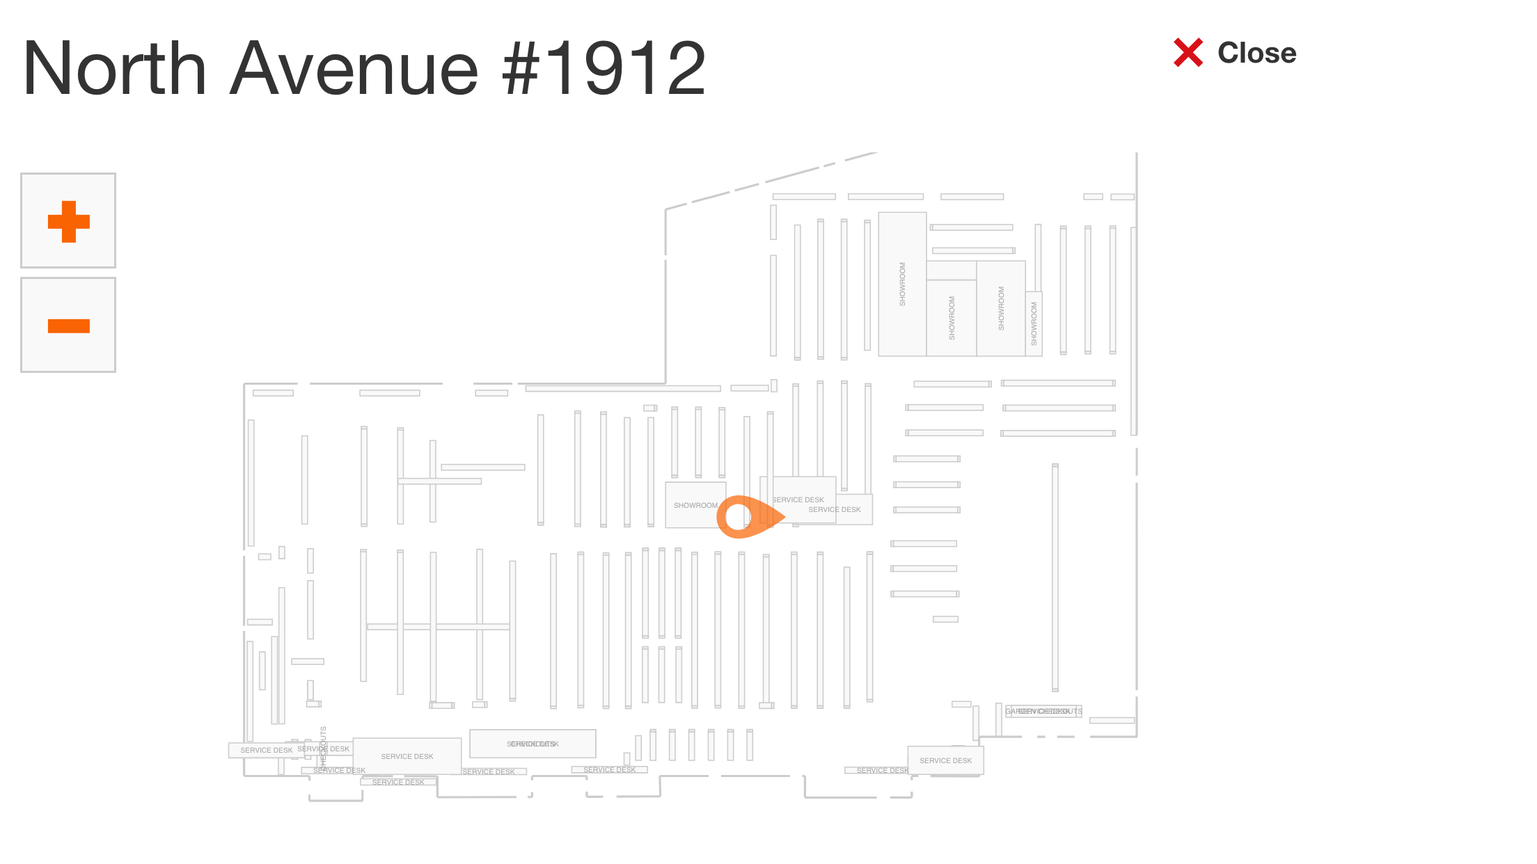
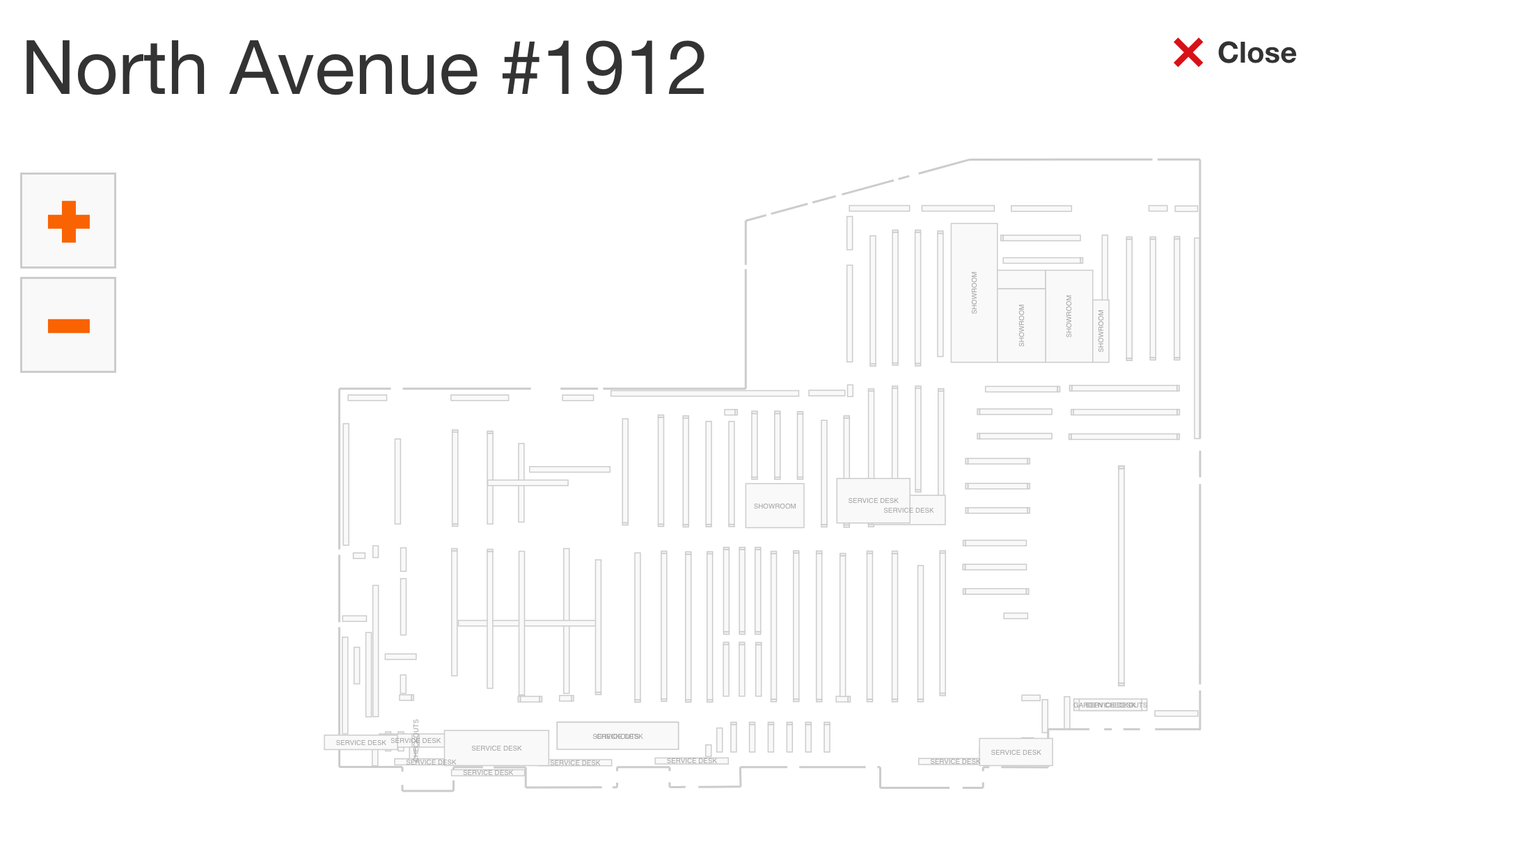
working proof-of-concept

diff --git a/test.js b/test.js
@@ -1,0 +1,119 @@
+const salesman = require('./salesman');
+
+const data = [
+  { itemName: 'Store Entrance', x: 314, y: 304 },
+  {
+    itemName: 'DEWALT Black and Gold Drill Bit Set (14-Piece)',
+    locationText: 'Aisle 09, Bay 005',
+    x: 226.2057708287155,
+    y: 247.61979849227774,
+    cartItemDiv:
+      '<div class="grid"><div class="col__4-12 col__2-12--xs u__p-left--none"><div class="cartImage"><a href="//www.homedepot.com/p/DEWALT-Black-and-Gold-Drill-Bit-Set-14-Piece-DWA1184/205952637"><img alt="Black and Gold Drill Bit Set (14-Piece)" class="cartImage__image" src="https://images.homedepot-static.com/productImages/0fe61d8e-48ec-4773-acce-915b7867d43e/svn/dewalt-twist-drill-bits-dwa1184-64_400.jpg"></a></div></div><div class="col__8-12 col__4-12--xs"><h3 class="cartItem__brandName"><a href="//www.homedepot.com/p/DEWALT-Black-and-Gold-Drill-Bit-Set-14-Piece-DWA1184/205952637"><span class="u__bold">DEWALT</span>&nbsp;<span>Black and Gold Drill Bit Set (14-Piece)</span></a></h3><div class="cartItem__productId" data-automation-id="productDetailsModelNumberText">Model #DWA1184</div></div><div class="col__4-12 col__2-12--xs u__p-left--none"><div><div><label class="cartItem__qtyLabel">Qty</label><div><input type="tel" class="cartItem__qtyInput form-input__field padding_left-10 padding_right-10" maxlength="4" data-automation-id="itemQuantityBoxQuantityInput" value="1"></div></div></div></div><div class="col__4-12 col__2-12--xs"><label class="cartItem__priceLabel">Unit Price</label><div class="cartItem__price ">$14.97</div></div><div class="col__4-12 col__1-12--xs"><label class="cartItem__priceLabel">Item Total</label><div class="cartItem__price p-bottom-small">$14.97</div></div></div>',
+    storeMarkerElement:
+      '<g data-x="226.7057708287155" data-y="261.5868552490699" class="storemarker"><defs><marker id="storemarker" refX="-13.96705675679217" viewbox="0 0 32 32" refY="-0.5" markerWidth="32" markerHeight="32" fill="#f96302" style="shape-rendering: auto; stroke: none; opacity: 0.7;"><path d="M16 0c-5.523 0-10 4.477-10 10 0 10 10 22 10 22s10-12 10-22c0-5.523-4.477-10-10-10zM16 16c-3.314 0-6-2.686-6-6s2.686-6 6-6 6 2.686 6 6-2.686 6-6 6z"></path></marker></defs><path class="storemarker" d="M210.7057708287155,229.5868552490699L210.7057708287155,229.5968552490699" marker-end="url(#storemarker)" style="opacity: 1;"></path></g>'
+  },
+  {
+    itemName:
+      'DEWALT ATOMIC 20-Volt MAX Lithium-Ion Brushless Cordless Compact 1/2 in. Drill Driver w/ (2) Batteries 1.3Ah, Charger & Bag',
+    locationText: 'Aisle 09, Bay 009',
+    x: 226.2057708287155,
+    y: 233.65274173548556,
+    cartItemDiv:
+      '<div class="grid"><div class="col__4-12 col__2-12--xs u__p-left--none"><div class="cartImage"><a href="//www.homedepot.com/p/DEWALT-ATOMIC-20-Volt-MAX-Lithium-Ion-Brushless-Cordless-Compact-1-2-in-Drill-Driver-w-2-Batteries-1-3Ah-Charger-Bag-DCD708C2/308067442"><img alt="ATOMIC 20-Volt MAX Lithium-Ion Brushless Cordless Compact 1/2 in. Drill Driver w/ (2) Batteries 1.3Ah, Charger &amp; Bag" class="cartImage__image" src="https://images.homedepot-static.com/productImages/c6327a22-e931-482b-9d3e-aeab30caa4be/svn/dewalt-power-drills-dcd708c2-64_400.jpg"></a></div></div><div class="col__8-12 col__4-12--xs"><h3 class="cartItem__brandName"><a href="//www.homedepot.com/p/DEWALT-ATOMIC-20-Volt-MAX-Lithium-Ion-Brushless-Cordless-Compact-1-2-in-Drill-Driver-w-2-Batteries-1-3Ah-Charger-Bag-DCD708C2/308067442"><span class="u__bold">DEWALT</span>&nbsp;<span>ATOMIC 20-Volt MAX Lithium-Ion Brushless Cordless Compact 1/2 in. Drill Driver w/ (2) Batteries 1.3Ah, Charger &amp; Bag</span></a></h3><div class="cartItem__productId" data-automation-id="productDetailsModelNumberText">Model #DCD708C2</div></div><div class="col__4-12 col__2-12--xs u__p-left--none"><div><div><label class="cartItem__qtyLabel">Qty</label><div><input type="tel" class="cartItem__qtyInput form-input__field padding_left-10 padding_right-10" maxlength="4" data-automation-id="itemQuantityBoxQuantityInput" value="1"></div></div></div></div><div class="col__4-12 col__2-12--xs"><label class="cartItem__priceLabel">Unit Price</label><div class="cartItem__price ">$159.00</div></div><div class="col__4-12 col__1-12--xs"><label class="cartItem__priceLabel">Item Total</label><div class="cartItem__price p-bottom-small">$159.00</div></div></div>',
+    storeMarkerElement:
+      '<g data-x="226.7057708287155" data-y="261.5868552490699" class="storemarker"><defs><marker id="storemarker" refX="-27.93411351358434" viewbox="0 0 32 32" refY="-0.5" markerWidth="32" markerHeight="32" fill="#f96302" style="shape-rendering: auto; stroke: none; opacity: 0.7;"><path d="M16 0c-5.523 0-10 4.477-10 10 0 10 10 22 10 22s10-12 10-22c0-5.523-4.477-10-10-10zM16 16c-3.314 0-6-2.686-6-6s2.686-6 6-6 6 2.686 6 6-2.686 6-6 6z"></path></marker></defs><path class="storemarker" d="M210.7057708287155,229.5868552490699L210.7057708287155,229.5968552490699" marker-end="url(#storemarker)" style="opacity: 1;"></path></g>'
+  },
+  {
+    itemName: 'DAP Alex Plus 10.1 oz. White Acrylic Latex Caulk Plus Silicone',
+    locationText: 'Aisle 38, Bay 003',
+    x: 253.11407419384574,
+    y: 174.36693710882855,
+    cartItemDiv:
+      '<div class="grid"><div class="col__4-12 col__2-12--xs u__p-left--none"><div class="cartImage"><a href="//www.homedepot.com/p/DAP-Alex-Plus-10-1-oz-White-Acrylic-Latex-Caulk-Plus-Silicone-18103/100097524"><img alt="Alex Plus 10.1 oz. White Acrylic Latex Caulk Plus Silicone" class="cartImage__image" src="https://images.homedepot-static.com/productImages/66016895-a1aa-445a-954f-8f75a0f7a6ed/svn/white-dap-caulk-18103-64_400.jpg"></a></div></div><div class="col__8-12 col__4-12--xs"><h3 class="cartItem__brandName"><a href="//www.homedepot.com/p/DAP-Alex-Plus-10-1-oz-White-Acrylic-Latex-Caulk-Plus-Silicone-18103/100097524"><span class="u__bold">DAP</span>&nbsp;<span>Alex Plus 10.1 oz. White Acrylic Latex Caulk Plus Silicone</span></a></h3><div class="cartItem__productId" data-automation-id="productDetailsModelNumberText">Model #18103</div></div><div class="col__4-12 col__2-12--xs u__p-left--none"><div><div><label class="cartItem__qtyLabel">Qty</label><div><input type="tel" class="cartItem__qtyInput form-input__field padding_left-10 padding_right-10" maxlength="4" data-automation-id="itemQuantityBoxQuantityInput" value="1"></div></div></div></div><div class="col__4-12 col__2-12--xs"><label class="cartItem__priceLabel">Unit Price</label><div class="cartItem__price ">$2.58</div></div><div class="col__4-12 col__1-12--xs"><label class="cartItem__priceLabel">Item Total</label><div class="cartItem__price p-bottom-small">$2.58</div></div></div>',
+    storeMarkerElement:
+      '<g data-x="261.61939668883724" data-y="178.02273440448178" class="storemarker"><defs><marker id="storemarker" refX="-3.6557972956532248" viewbox="0 0 32 32" refY="-8.5053224949915" markerWidth="32" markerHeight="32" fill="#f96302" style="shape-rendering: auto; stroke: none; opacity: 0.7;"><path d="M16 0c-5.523 0-10 4.477-10 10 0 10 10 22 10 22s10-12 10-22c0-5.523-4.477-10-10-10zM16 16c-3.314 0-6-2.686-6-6s2.686-6 6-6 6 2.686 6 6-2.686 6-6 6z"></path></marker></defs><path class="storemarker" d="M245.61939668883724,146.02273440448178L245.61939668883724,146.03273440448177" marker-end="url(#storemarker)" style="opacity: 1;"></path></g>'
+  },
+  {
+    itemName:
+      'EcoSmart 60-Watt Equivalent A19 Non-Dimmable LED Light Bulb Daylight (8-Pack)',
+    locationText: 'Aisle 01, Bay 010',
+    x: 304.38581383580714,
+    y: 231.83376767470008,
+    cartItemDiv:
+      '<div class="grid"><div class="col__4-12 col__2-12--xs u__p-left--none"><div class="cartImage"><a href="//www.homedepot.com/p/EcoSmart-60-Watt-Equivalent-A19-Non-Dimmable-LED-Light-Bulb-Daylight-8-Pack-B7A19A60WUL38/303574493"><img alt="60-Watt Equivalent A19 Non-Dimmable LED Light Bulb Daylight (8-Pack)" class="cartImage__image" src="https://images.homedepot-static.com/productImages/9e5456cf-b653-4adf-9f8d-0db4548bbdb3/svn/ecosmart-led-light-bulbs-b7a19a60wul38-64_400.jpg"></a></div></div><div class="col__8-12 col__4-12--xs"><h3 class="cartItem__brandName"><a href="//www.homedepot.com/p/EcoSmart-60-Watt-Equivalent-A19-Non-Dimmable-LED-Light-Bulb-Daylight-8-Pack-B7A19A60WUL38/303574493"><span class="u__bold">EcoSmart</span>&nbsp;<span>60-Watt Equivalent A19 Non-Dimmable LED Light Bulb Daylight (8-Pack)</span></a></h3><div class="cartItem__productId" data-automation-id="productDetailsModelNumberText">Model #B7A19A60WUL38</div></div><div class="col__4-12 col__2-12--xs u__p-left--none"><div><div><label class="cartItem__qtyLabel">Qty</label><div><input type="tel" class="cartItem__qtyInput form-input__field padding_left-10 padding_right-10" maxlength="4" data-automation-id="itemQuantityBoxQuantityInput" value="1"></div></div></div></div><div class="col__4-12 col__2-12--xs"><label class="cartItem__priceLabel">Unit Price</label><div class="cartItem__price ">$9.94</div></div><div class="col__4-12 col__1-12--xs"><label class="cartItem__priceLabel">Item Total</label><div class="cartItem__price p-bottom-small">$9.94</div></div></div>',
+    storeMarkerElement:
+      '<g data-x="307.58581383580713" data-y="258.6930330062223" class="storemarker"><defs><marker id="storemarker" refX="-26.859265331522224" viewbox="0 0 32 32" refY="-3.2" markerWidth="32" markerHeight="32" fill="#f96302" style="shape-rendering: auto; stroke: none; opacity: 0.7;"><path d="M16 0c-5.523 0-10 4.477-10 10 0 10 10 22 10 22s10-12 10-22c0-5.523-4.477-10-10-10zM16 16c-3.314 0-6-2.686-6-6s2.686-6 6-6 6 2.686 6 6-2.686 6-6 6z"></path></marker></defs><path class="storemarker" d="M291.58581383580713,226.69303300622232L291.58581383580713,226.7030330062223" marker-end="url(#storemarker)" style="opacity: 1;"></path></g>'
+  },
+  {
+    itemName:
+      '3M Scotch 1.88 in. x 54.6 yds. Heavy-Duty Shipping Packaging Tape with Dispenser',
+    locationText: 'Aisle 61, Bay 002',
+    x: 325.8078270594234,
+    y: 166.20040028201868,
+    cartItemDiv:
+      '<div class="grid"><div class="col__4-12 col__2-12--xs u__p-left--none"><div class="cartImage"><a href="//www.homedepot.com/p/3M-Scotch-1-88-in-x-54-6-yds-Heavy-Duty-Shipping-Packaging-Tape-with-Dispenser-3850-RD-DC/100149185"><img alt="Scotch 1.88 in. x 54.6 yds. Heavy-Duty Shipping Packaging Tape with Dispenser" class="cartImage__image" src="https://images.homedepot-static.com/productImages/93552175-1709-44b0-8e1a-041a8e78a62c/svn/3m-adhesives-tape-3850-rd-dc-64_400.jpg"></a></div></div><div class="col__8-12 col__4-12--xs"><h3 class="cartItem__brandName"><a href="//www.homedepot.com/p/3M-Scotch-1-88-in-x-54-6-yds-Heavy-Duty-Shipping-Packaging-Tape-with-Dispenser-3850-RD-DC/100149185"><span class="u__bold">3M</span>&nbsp;<span>Scotch 1.88 in. x 54.6 yds. Heavy-Duty Shipping Packaging Tape with Dispenser</span></a></h3><div class="cartItem__productId" data-automation-id="productDetailsModelNumberText">Model #3850-RD-DC</div></div><div class="col__4-12 col__2-12--xs u__p-left--none"><div><div><label class="cartItem__qtyLabel">Qty</label><div><input type="tel" class="cartItem__qtyInput form-input__field padding_left-10 padding_right-10" maxlength="4" data-automation-id="itemQuantityBoxQuantityInput" value="1"></div></div></div></div><div class="col__4-12 col__2-12--xs"><label class="cartItem__priceLabel">Unit Price</label><div class="cartItem__price ">$6.27</div></div><div class="col__4-12 col__1-12--xs"><label class="cartItem__priceLabel">Item Total</label><div class="cartItem__price p-bottom-small">$6.27</div></div></div>',
+    storeMarkerElement:
+      '<g data-x="320.5086938380746" data-y="170.267897620809" class="storemarker"><defs><marker id="storemarker" refX="-4.067497338790326" viewbox="0 0 32 32" refY="5.2991332213488" markerWidth="32" markerHeight="32" fill="#f96302" style="shape-rendering: auto; stroke: none; opacity: 0.7;"><path d="M16 0c-5.523 0-10 4.477-10 10 0 10 10 22 10 22s10-12 10-22c0-5.523-4.477-10-10-10zM16 16c-3.314 0-6-2.686-6-6s2.686-6 6-6 6 2.686 6 6-2.686 6-6 6z"></path></marker></defs><path class="storemarker" d="M304.5086938380746,138.267897620809L304.5086938380746,138.277897620809" marker-end="url(#storemarker)" style="opacity: 1;"></path></g>'
+  }
+];
+let noLocationData = [
+  {
+    itemName:
+      'Energizer Rechargeable AA Batteries, NiHM, 2000 mAh, Pre-Charged, 4-Count (Recharge Universal)',
+    locationText: 'Aisle C2, Bay 020',
+    cartItemDiv:
+      '<div class="grid"><div class="col__4-12 col__2-12--xs u__p-left--none"><div class="cartImage"><a href="//www.homedepot.com/p/Energizer-Rechargeable-AA-Batteries-NiHM-2000-mAh-Pre-Charged-4-Count-Recharge-Universal-UNH15BP-4/204406591"><img alt="Rechargeable AA Batteries, NiHM, 2000 mAh, Pre-Charged, 4-Count (Recharge Universal)" class="cartImage__image" src="https://images.homedepot-static.com/productImages/92ffd374-b030-48fa-8322-542966d2e1a2/svn/energizer-aa-batteries-unh15bp-4-64_400.jpg"></a></div></div><div class="col__8-12 col__4-12--xs"><h3 class="cartItem__brandName"><a href="//www.homedepot.com/p/Energizer-Rechargeable-AA-Batteries-NiHM-2000-mAh-Pre-Charged-4-Count-Recharge-Universal-UNH15BP-4/204406591"><span class="u__bold">Energizer</span>&nbsp;<span>Rechargeable AA Batteries, NiHM, 2000 mAh, Pre-Charged, 4-Count (Recharge Universal)</span></a></h3><div class="cartItem__productId" data-automation-id="productDetailsModelNumberText">Model #UNH15BP-4</div></div><div class="col__4-12 col__2-12--xs u__p-left--none"><div><div><label class="cartItem__qtyLabel">Qty</label><div><input type="tel" class="cartItem__qtyInput form-input__field padding_left-10 padding_right-10" maxlength="4" data-automation-id="itemQuantityBoxQuantityInput" value="1"></div></div></div></div><div class="col__4-12 col__2-12--xs"><label class="cartItem__priceLabel">Unit Price</label><div class="cartItem__price ">$10.98</div></div><div class="col__4-12 col__1-12--xs"><label class="cartItem__priceLabel">Item Total</label><div class="cartItem__price p-bottom-small">$10.98</div></div></div>'
+  }
+];
+// points: [
+//   Point { x: 314, y: 304 },
+//   Point { x: 226.2057708287155, y: 247.61979849227774 },
+//   Point { x: 226.2057708287155, y: 233.65274173548556 },
+//   Point { x: 253.11407419384574, y: 174.36693710882855 },
+//   Point { x: 304.38581383580714, y: 231.83376767470008 },
+//   Point { x: 325.8078270594234, y: 166.20040028201868 }
+// ]
+// solution: [ 0, 4, 5, 3, 2, 1 ]
+// ordered_points: [
+//   Point { x: 314, y: 304 },
+//   Point { x: 304.38581383580714, y: 231.83376767470008 },
+//   Point { x: 325.8078270594234, y: 166.20040028201868 },
+//   Point { x: 253.11407419384574, y: 174.36693710882855 },
+//   Point { x: 226.2057708287155, y: 233.65274173548556 },
+//   Point { x: 226.2057708287155, y: 247.61979849227774 }
+// ]
+
+const expect_solution = [0, 4, 5, 3, 2, 1];
+
+// console.log(data[expect_solution[1]].x);
+
+// let salesman_path_html = (
+//   <path
+//     class='salesman'
+//     d='M314,304L307.58581383580713,258.6930330062223L320.5086938380746,170.267897620809L261.61939668883724,178.02273440448178L226.7057708287155,261.5868552490699L226.7057708287155,261.5868552490699L'
+//     style='stroke: rgb(249, 99, 2); stroke-width: 2; fill: none; opacity: .5;'
+//   ></path>
+// );
+
+// const points = [];
+// data.forEach(item => points.push(new salesman.Point(item.x, item.y)));
+// console.log('points:', points);
+// const solution = salesman.solve(points);
+// console.log('solution:', solution);
+// const ordered_points = solution.map(i => points[i]);
+// console.log('ordered_points:', ordered_points);
+
+// const salesman_path_attribute_d = () => {
+//   let str = 'M';
+//   for (let i = 0; i < solution.length; i++) {
+//     str += `${data[expect_solution[i]].x},${data[expect_solution[i]].y}L`;
+//   }
+//   return str;
+// };
+// console.log(salesman_path_attribute_d());
+
+let storeMarkerStr = '';
+data.forEach(
+  item => item.storeMarkerElement && (storeMarkerStr += item.storeMarkerElement)
+);
+console.log(storeMarkerStr);

diff --git a/scraper.js b/scraper.js
@@ -1,8 +1,15 @@
 const puppeteer = require('puppeteer');
 const devices = require('puppeteer/DeviceDescriptors');
 const iPhone = devices['iPhone 8 Plus landscape'];
+const salesman = require('./salesman');
 
-const data = [];
+const data = [
+  {
+    itemName: 'Store Entrance',
+    x: '314',
+    y: '304'
+  }
+];
 const noLocationData = [];
 
 puppeteer.launch({ headless: false }).then(async browser => {
@@ -11,7 +18,9 @@ puppeteer.launch({ headless: false }).then(async browser => {
   await page.emulate(iPhone);
 
   let cartUrl =
-    'https://www.homedepot.com/mycart/home?userId=cd14e1db-18d4-4f32-9f20-49a9814b2cc8&customerId=cd14e1db-18d4-4f32-9f20-49a9814b2cc8&sharedCartId=HL100097460525?cm_mmc=ecc-_-THD_SHARE_CART__V1_M1_CA-_-VIEW_CART#';
+    'https://www.homedepot.com/mycart/home?userId=07a24488-de3a-4947-bf44-c2e6f8b3562e&customerId=07a24488-de3a-4947-bf44-c2e6f8b3562e&sharedCartId=HL100097460525?cm_mmc=ecc-_-THD_SHARE_CART__V1_M1_CA-_-VIEW_CART';
+  // 'https://www.homedepot.com/mycart/home?userId=bfd41032-14de-4903-8e62-96e77a8918f0&customerId=bfd41032-14de-4903-8e62-96e77a8918f0&sharedCartId=HL100097460525?cm_mmc=ecc-_-THD_SHARE_CART__V1_M1_CA-_-VIEW_CART';
+  // 'https://www.homedepot.com/mycart/home?userId=cd14e1db-18d4-4f32-9f20-49a9814b2cc8&customerId=cd14e1db-18d4-4f32-9f20-49a9814b2cc8&sharedCartId=HL100097460525?cm_mmc=ecc-_-THD_SHARE_CART__V1_M1_CA-_-VIEW_CART#';
 
   let storeNumber = '1912';
 
@@ -80,6 +89,7 @@ puppeteer.launch({ headless: false }).then(async browser => {
     page.waitForNavigation();
 
     //#store-availability > div > fieldset > div > a > span.u__bold.store-availability__content
+    await page.waitForSelector('a > .store-availability__content');
     const locationText = await page.$eval(
       'a > .store-availability__content',
       element => element.outerText
@@ -97,11 +107,27 @@ puppeteer.launch({ headless: false }).then(async browser => {
 
     if (await page.$('g.storemarker')) {
       const storeMarkerElement = await page.$eval(
-        'g.storemarker',
+        'g.active-aisle',
         element => element.outerHTML
       );
-      const x = await page.$eval('g.storemarker', element => element.dataset.x);
-      const y = await page.$eval('g.storemarker', element => element.dataset.y);
+      let x = await page.$eval('g.storemarker', element => element.dataset.x);
+      // console.log('x before offeset:', x);
+
+      let y = await page.$eval('g.storemarker', element => element.dataset.y);
+      // console.log('y before offeset:', y);
+
+      // const xOffset = await page.evaluate(() =>
+      //   document.querySelector('#storemarker').getAttribute('refX')
+      // );
+      // console.log('xOffeset:', xOffset);
+      // xOffset && (y = +y + +xOffset);
+
+      // const yOffset = await page.evaluate(() =>
+      //   document.querySelector('#storemarker').getAttribute('refY')
+      // );
+      // console.log('yOffeset:', yOffset);
+      // yOffset && (x = +x + +yOffset);
+
       // console.log(storeMarkerElement);
       console.log('x:', x);
       console.log('y:', y);
@@ -134,14 +160,57 @@ puppeteer.launch({ headless: false }).then(async browser => {
   // <------------ cartItems data scraping loop ------------>
   console.log('data:', data);
   console.log('noLocationData:', noLocationData);
-  //document.querySelector('g.storemarker').dataset.x
-  //document.querySelector('g.storemarker').dataset.y
-  // grab the g.active-aisle (g.storemarker) innerHtml and store it in ITEM object
-  // need to grab rect.(x,y) coordinates from g.storemarker for each item
+
+  // <------------ set Markers ------------>
+  let storeMarkerStr = '';
+  data.forEach(
+    item =>
+      item.storeMarkerElement && (storeMarkerStr += item.storeMarkerElement)
+  );
+
+  await page.evaluate(storeMarkerStr => {
+    let node = document.createElement('g');
+    document.querySelector('.storemap-wrapper').appendChild(node);
+    node.outerHTML = `${storeMarkerStr}`;
+  }, storeMarkerStr);
+  // <------------ set Markers ------------>
+
+  // <--------- apply Traveling Salesman algorithm --------->
+  const points = [];
+  data.forEach(item => points.push(new salesman.Point(item.x, item.y)));
+  console.log('points:', points);
+  const solution = salesman.solve(points);
+  console.log('solution:', solution);
+  const ordered_points = solution.map(i => points[i]);
+  console.log('ordered_points:', ordered_points);
+  // <--------- apply Traveling Salesman algorithm --------->
+
+  const salesman_path_attribute_d = () => {
+    let str = 'M';
+    for (let i = 0; i < solution.length; i++) {
+      str += `${data[solution[i]].x},${data[solution[i]].y}L`;
+    }
+    return str;
+  };
+  // console.log(salesman_path_attribute_d());
+  let path = salesman_path_attribute_d();
+
+  // <------------ set Salesman Path ------------>
+  await page.evaluate(path => {
+    let node = document.createElement('path');
+    document.querySelector('.storemap-wrapper').appendChild(node);
+    node.outerHTML = `<path class="route" d="${path}" style="stroke: rgb(249, 99, 2); stroke-width: 2; fill: none; opacity: .6;"></path>
+    `;
+  }, path);
+
+  // <------------ set Salesman Path ------------>
+
+  //  + rerender div.cartItem(s) in correct order
+
   // svg parent graph element is #storemap-wrapper > svg > g.outer > g (width="450" height="319.13113161025126")
-  // Traveling Salesman algorithm + rerender div.cartItem(s) in correct order
   // return store map with visualization of TS route
+  // path html: <path class="route" d="M314,304L307.58581383580713,258.6930330062223L320.5086938380746,170.267897620809L261.61939668883724,178.02273440448178L226.7057708287155,261.5868552490699L226.7057708287155,261.5868552490699" style="stroke: rgb(249, 99, 2); stroke-width: 2; fill: none; opacity: .5;"></path>
 
   // close headless browser when finished
-  await browser.close();
+  // await browser.close();
 });

diff --git a/salesman.js b/salesman.js
@@ -1,0 +1,134 @@
+/**
+ * @module
+ * @author Ophir LOJKINE
+ * salesman npm module
+ *
+ * Good heuristic for the traveling salesman problem using simulated annealing.
+ * @see {@link https://lovasoa.github.io/salesman.js/|demo}
+ **/
+
+/**
+ * @private
+ */
+function Path(points) {
+  this.points = points;
+  this.order = new Array(points.length);
+  for (var i = 0; i < points.length; i++) this.order[i] = i;
+  this.distances = new Array(points.length * points.length);
+  for (var i = 0; i < points.length; i++)
+    for (var j = 0; j < points.length; j++)
+      this.distances[j + i * points.length] = distance(points[i], points[j]);
+}
+Path.prototype.change = function(temp) {
+  var i = this.randomPos(),
+    j = this.randomPos();
+  var delta = this.delta_distance(i, j);
+  if (delta < 0 || Math.random() < Math.exp(-delta / temp)) {
+    this.swap(i, j);
+  }
+};
+Path.prototype.size = function() {
+  var s = 0;
+  for (var i = 0; i < this.points.length; i++) {
+    s += this.distance(i, (i + 1) % this.points.length);
+  }
+  return s;
+};
+Path.prototype.swap = function(i, j) {
+  var tmp = this.order[i];
+  this.order[i] = this.order[j];
+  this.order[j] = tmp;
+};
+Path.prototype.delta_distance = function(i, j) {
+  var jm1 = this.index(j - 1),
+    jp1 = this.index(j + 1),
+    im1 = this.index(i - 1),
+    ip1 = this.index(i + 1);
+  var s =
+    this.distance(jm1, i) +
+    this.distance(i, jp1) +
+    this.distance(im1, j) +
+    this.distance(j, ip1) -
+    this.distance(im1, i) -
+    this.distance(i, ip1) -
+    this.distance(jm1, j) -
+    this.distance(j, jp1);
+  if (jm1 === i || jp1 === i) s += 2 * this.distance(i, j);
+  return s;
+};
+Path.prototype.index = function(i) {
+  return (i + this.points.length) % this.points.length;
+};
+Path.prototype.access = function(i) {
+  return this.points[this.order[this.index(i)]];
+};
+Path.prototype.distance = function(i, j) {
+  return this.distances[this.order[i] * this.points.length + this.order[j]];
+};
+// Random index between 1 and the last position in the array of points
+Path.prototype.randomPos = function() {
+  return 1 + Math.floor(Math.random() * (this.points.length - 1));
+};
+
+/**
+ * Solves the following problem:
+ *  Given a list of points and the distances between each pair of points,
+ *  what is the shortest possible route that visits each point exactly
+ *  once and returns to the origin point?
+ *
+ * @param {Point[]} points The points that the path will have to visit.
+ * @param {Number} [temp_coeff=0.999] changes the convergence speed of the algorithm: the closer to 1, the slower the algorithm and the better the solutions.
+ * @param {Function} [callback=] An optional callback to be called after each iteration.
+ *
+ * @returns {Number[]} An array of indexes in the original array. Indicates in which order the different points are visited.
+ *
+ * @example
+ * var points = [
+ *       new salesman.Point(2,3)
+ *       //other points
+ *     ];
+ * var solution = salesman.solve(points);
+ * var ordered_points = solution.map(i => points[i]);
+ * // ordered_points now contains the points, in the order they ought to be visited.
+ **/
+function solve(points, temp_coeff, callback) {
+  var path = new Path(points);
+  if (points.length < 2) return path.order; // There is nothing to optimize
+  if (!temp_coeff)
+    temp_coeff = 1 - Math.exp(-10 - Math.min(points.length, 1e6) / 1e5);
+  var has_callback = typeof callback === 'function';
+
+  for (
+    var temperature = 100 * distance(path.access(0), path.access(1));
+    temperature > 1e-6;
+    temperature *= temp_coeff
+  ) {
+    path.change(temperature);
+    if (has_callback) callback(path.order);
+  }
+  return path.order;
+}
+
+/**
+ * Represents a point in two dimensions.
+ * @class
+ * @param {Number} x abscissa
+ * @param {Number} y ordinate
+ */
+function Point(x, y) {
+  this.x = x;
+  this.y = y;
+}
+
+function distance(p, q) {
+  var dx = p.x - q.x,
+    dy = p.y - q.y;
+  return Math.sqrt(dx * dx + dy * dy);
+}
+
+if (typeof module === 'object') {
+  module.exports = {
+    solve: solve,
+    Point: Point
+  };
+}
